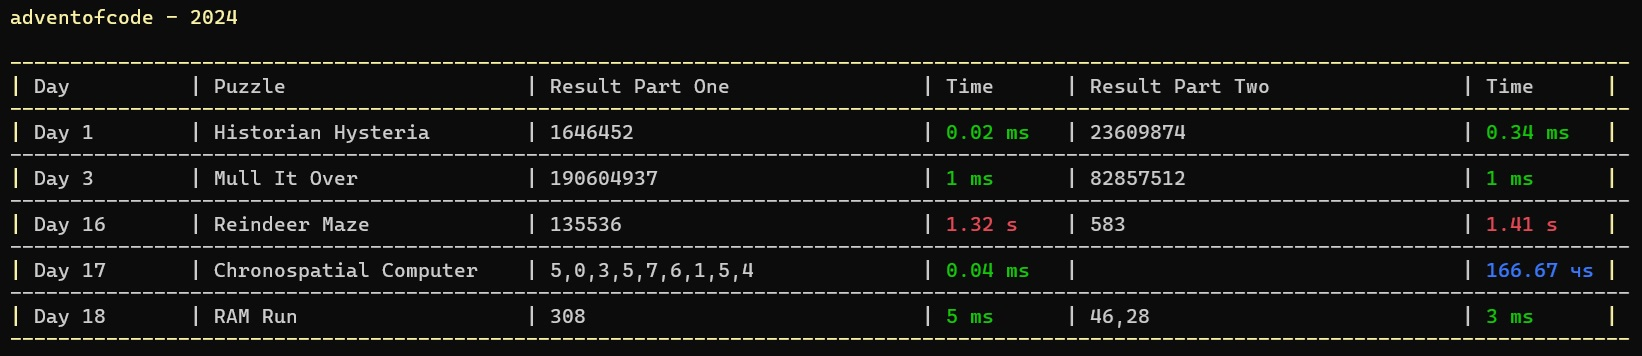
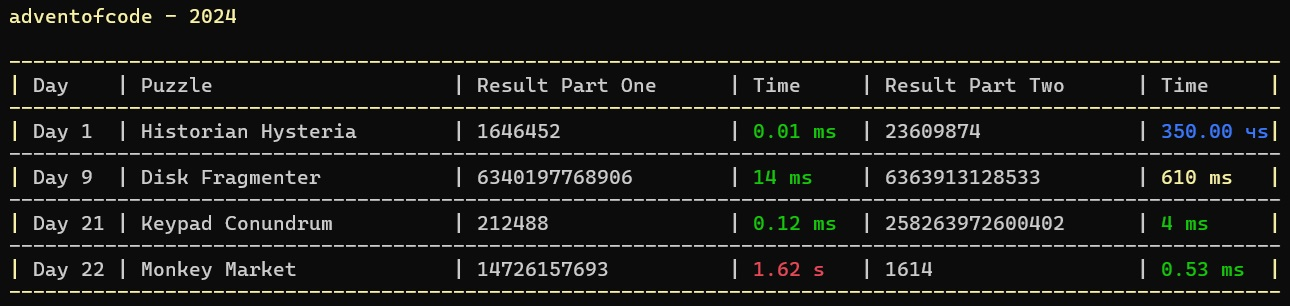
fix table

diff --git a/dotnet/adventofcode/builder/AdventOfCodeBuilder.cs b/dotnet/adventofcode/builder/AdventOfCodeBuilder.cs
@@ -59,17 +59,17 @@ public class AdventOfCodeBuilder : IAdventOfCodeBuilder
             Console.WriteLine("adventofcode - 2024");
             Console.WriteLine();
 
-            Console.WriteLine(new string('-', 135));
+            Console.WriteLine(new string('-', 106));
 
             Console.Write($"|");
             Console.ForegroundColor = originalColor;
-            Console.Write($" {"Day",-12} | {"Puzzle",-25} | {"Result Part One",-30} | {"Time",-9} | {"Result Part Two",-30} | {"Time",-10}");
+            Console.Write($" {"Day",-6} | {"Puzzle",-25} | {"Result Part One",-20} | {"Time",-8} | {"Result Part Two",-20} | {"Time",-9}");
             Console.ForegroundColor = BorderColor;
             Console.Write($"|");
             Console.WriteLine();
 
             Console.ForegroundColor = BorderColor;
-            Console.WriteLine(new string('-', 135));
+            Console.WriteLine(new string('-', 106));
 
             Console.ForegroundColor = originalColor;
         }
@@ -79,7 +79,7 @@ public class AdventOfCodeBuilder : IAdventOfCodeBuilder
             var originalColor = Console.ForegroundColor;
 
             Console.ForegroundColor = BorderColor;
-            Console.WriteLine(new string('-', 135));
+            Console.WriteLine(new string('-', 106));
 
             Console.ForegroundColor = originalColor;
         }
@@ -91,24 +91,24 @@ public class AdventOfCodeBuilder : IAdventOfCodeBuilder
 
             if (!isFirstRow)
             {
-                Console.WriteLine(new string('-', 135));
+                Console.WriteLine(new string('-', 106));
             }
 
             Console.ForegroundColor = BorderColor;
             Console.Write($"|");
             Console.ForegroundColor = originalColor;
-            Console.Write($" Day {day,-8} | {puzzle,-25} | {partOne.result,-30} | ");
+            Console.Write($" Day {day,-2} | {puzzle,-25} | {partOne.result,-20} | ");
 
             var (partOneColor, partOneTime) = FormatTime(partOne.milliseconds);
             Console.ForegroundColor = partOneColor;
-            Console.Write($"{partOneTime,-10}");
+            Console.Write($"{partOneTime,-9}");
 
             Console.ForegroundColor = originalColor;
-            Console.Write($"| {partTwo.result,-30} | ");
+            Console.Write($"| {partTwo.result,-20} | ");
 
             var (partTwoColor, partTwoTime) = FormatTime(partTwo.milliseconds);
             Console.ForegroundColor = partTwoColor;
-            Console.Write($"{partTwoTime,-10}");
+            Console.Write($"{partTwoTime,-9}");
 
             Console.ForegroundColor = BorderColor;
             Console.Write($"|");

diff --git a/dotnet/adventofcode/Program.cs b/dotnet/adventofcode/Program.cs
@@ -4,7 +4,5 @@ var adventofcode = new AdventOfCodeBuilder();
 
 adventofcode
     .Select(
-        selector => selector.Day21,
-        selector => selector.Day22
-        )
+        selector => selector.Day22)
     .Run();
